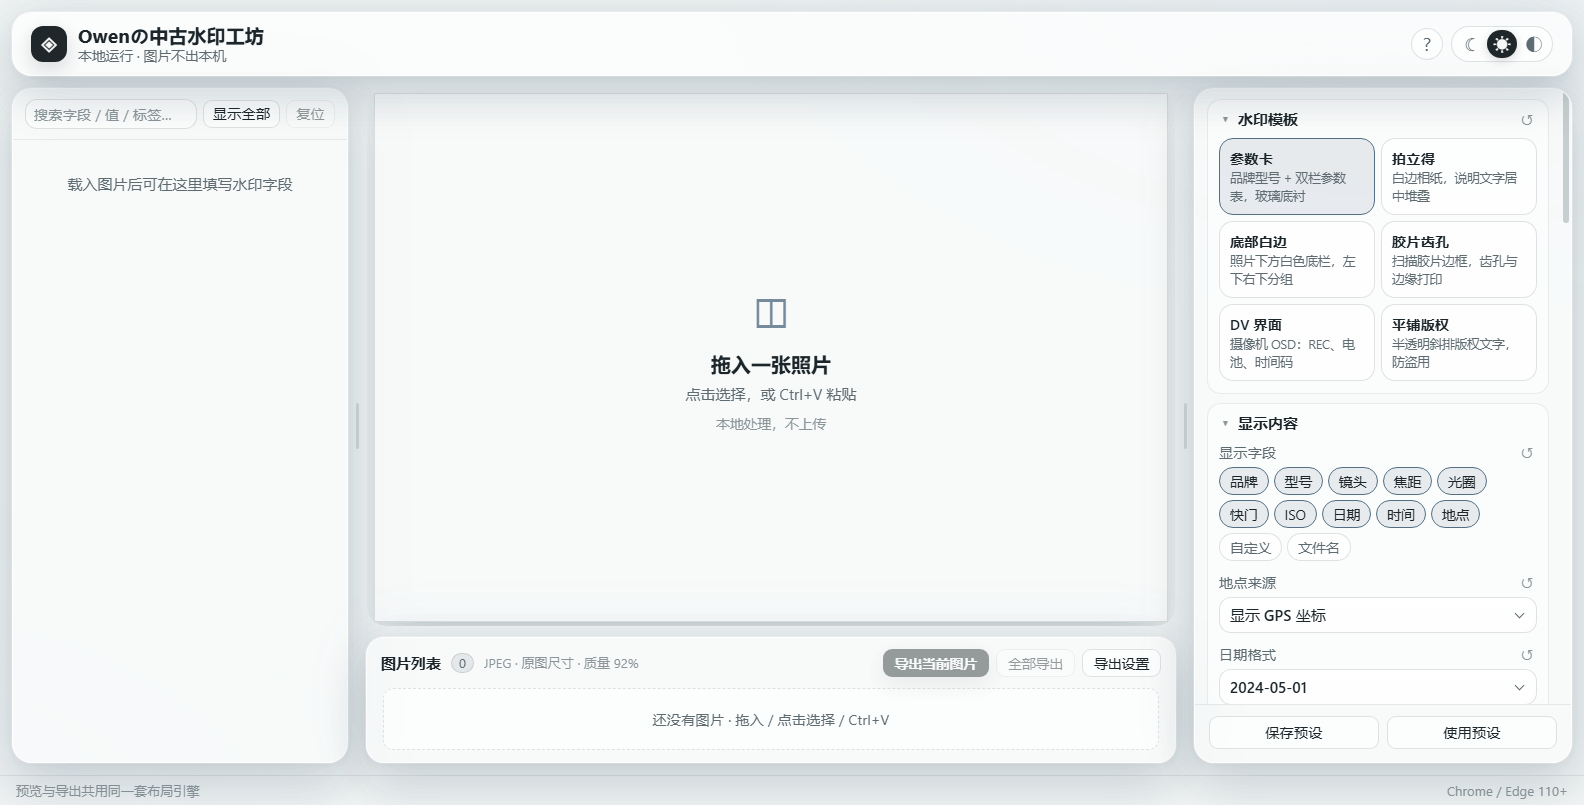
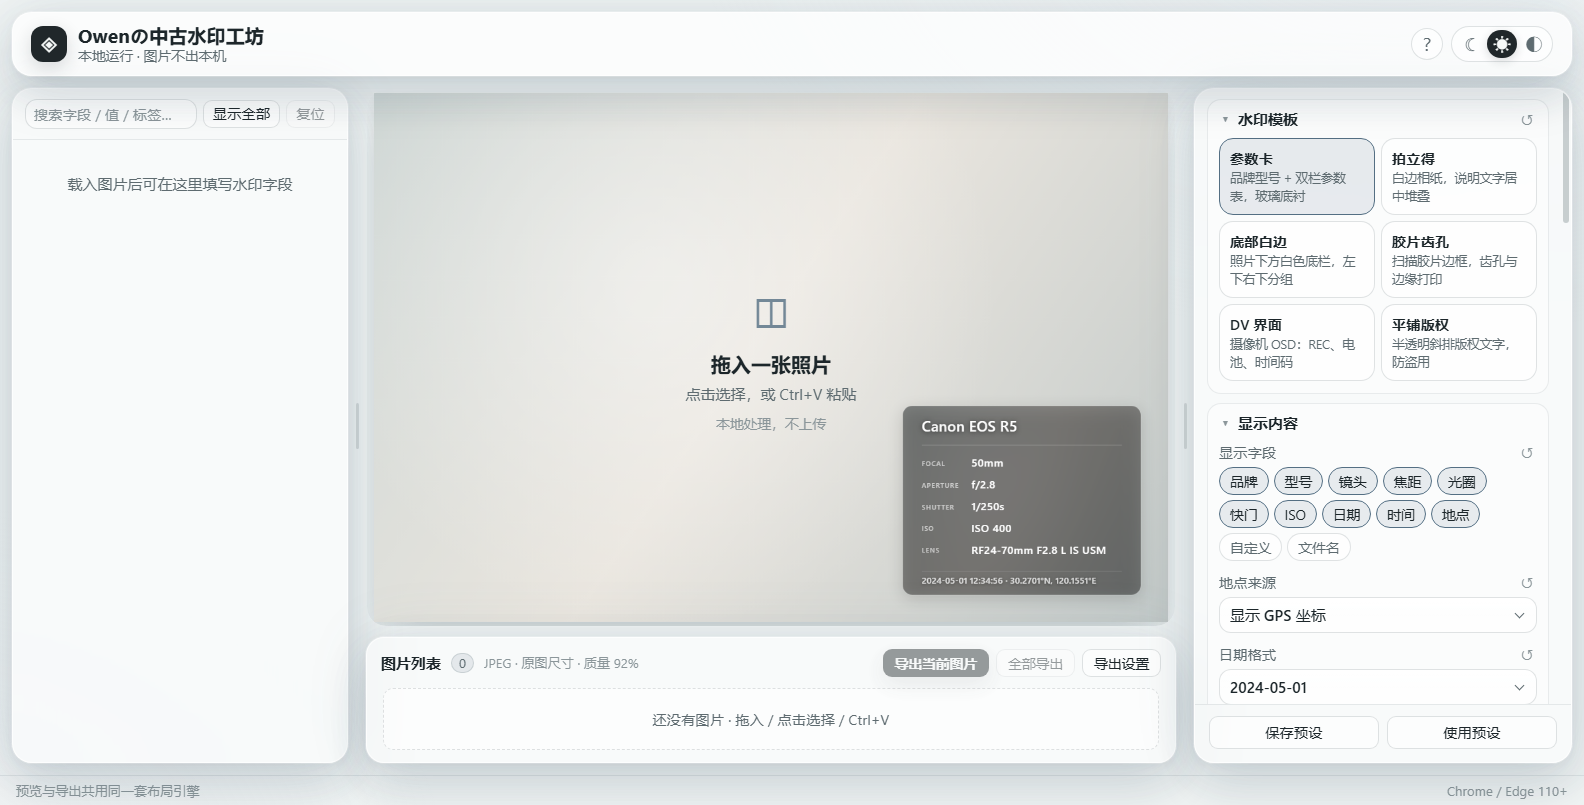
无图参考照片实时叠加模板水印
- 3:2 磨砂参考照片上按当前模板绘制水印，使用示例参数展示版式与位置
- 模板整体输出二分适配到 3:2，白边 / 胶片 / 拍立得外框也能完整铺满参考照片
- 保留拖入提示，点击模板即可预览，再次点击或双击取消
- mock 检查同步更新，新增 mock-preview 截图

Changed region(s): [[0.2165, 0.0932, 0.7424, 0.7764]]

diff --git a/js/ui.js b/js/ui.js
@@ -1055,16 +1055,111 @@
   }
 
   /* 无图状态也在画布上渲染当前模板，模拟一张照片导入后的样子 */
-  function renderMockPreview() {
-    // 没有照片时只保留 3:2 的磨砂占位方块；
-    // 模板选择仍然生效（存入 settings），导入照片后立刻应用。
-    var canvas = $id('empty-canvas');
-    if (!canvas) return;
+  /* 无图状态：一张空白参考照片 + 当前模板的水印预览 */
+  function mockPhotoCanvas() {
+    var canvas = document.createElement('canvas');
     canvas.width = 1200;
     canvas.height = 800;
     var ctx = canvas.getContext('2d');
-    ctx.clearRect(0, 0, canvas.width, canvas.height);
-    app.lastScene = null;
+    var g = ctx.createLinearGradient(0, 0, 1200, 800);
+    g.addColorStop(0, '#cfd7d5');
+    g.addColorStop(0.48, '#eae6df');
+    g.addColorStop(1, '#c2c9c8');
+    ctx.fillStyle = g;
+    ctx.fillRect(0, 0, 1200, 800);
+    var soft = ctx.createRadialGradient(430, 300, 40, 430, 300, 520);
+    soft.addColorStop(0, 'rgba(255, 255, 255, 0.42)');
+    soft.addColorStop(1, 'rgba(255, 255, 255, 0)');
+    ctx.fillStyle = soft;
+    ctx.fillRect(0, 0, 1200, 800);
+    return canvas;
+  }
+
+  function mockSummary() {
+    var summary = meta.buildSummary({
+      format: 'jpeg',
+      dimensions: { width: 1200, height: 800 },
+      file: { name: 'sample.jpg', size: 2400000 },
+      exif: null,
+      warnings: []
+    });
+    summary.make = 'Canon';
+    summary.model = 'EOS R5';
+    summary.modelFull = 'Canon EOS R5';
+    summary.lens = 'RF24-70mm F2.8 L IS USM';
+    summary.focal = 50;
+    summary.focalText = '50mm';
+    summary.aperture = 2.8;
+    summary.apertureText = 'f/2.8';
+    summary.shutter = 1 / 250;
+    summary.shutterText = '1/250s';
+    summary.iso = 400;
+    summary.isoText = 'ISO 400';
+    summary.exposureComp = 0.3;
+    summary.exposureCompText = '+0.3';
+    summary.exposureMode = 'A';
+    summary.exposureModeText = 'Av';
+    summary.date = meta.parseDateParts('2024-05-01 12:34:56');
+    summary.datetimeRaw = '2024-05-01 12:34:56';
+    summary.offset = '+08:00';
+    summary.latitude = 30.2701;
+    summary.longitude = 120.1551;
+    summary.altitude = 40;
+    summary.coordText = meta.formatCoord(30.2701, 120.1551);
+    summary.artist = 'Owen';
+    summary.copyright = '© 2024';
+    summary.filename = 'sample.jpg';
+    return summary;
+  }
+
+  function renderMockPreview() {
+    var canvas = $id('empty-canvas');
+    var box = $id('empty-state');
+    if (!canvas) return;
+    var hasTemplate = !!settings.template;
+    if (box) box.classList.toggle('has-template', hasTemplate);
+    if (!hasTemplate) {
+      canvas.width = 1200;
+      canvas.height = 800;
+      canvas.getContext('2d').clearRect(0, 0, 1200, 800);
+      app.lastScene = null;
+      return;
+    }
+    var photo = mockPhotoCanvas();
+    var summary = mockSummary();
+    var fmt = previewDateFormatter();
+    // 二分搜索照片宽度，让模板整体输出尽量接近 3:2，
+    // 这样白边/胶片/拍立得的外框也能完整铺满这块参考照片。
+    function composeMock(w) {
+      return layout.compose({
+        imageW: w,
+        imageH: 800,
+        meta: summary,
+        settings: settings,
+        brandName: 'Canon',
+        logoAspect: 3,
+        logoEnabled: false,
+        luminance: 0.55,
+        remoteLocation: '',
+        formatDateOnly: fmt.date,
+        formatTimeOnly: fmt.time
+      });
+    }
+    var lo = 240;
+    var hi = 4200;
+    var scene = composeMock(1200);
+    var bestDiff = Math.abs(scene.output.w / scene.output.h - 1.5);
+    for (var i = 0; i < 10; i++) {
+      var mid = Math.round((lo + hi) / 2);
+      var trial = composeMock(mid);
+      var ratio = trial.output.w / trial.output.h;
+      var diff = Math.abs(ratio - 1.5);
+      if (diff < bestDiff) { bestDiff = diff; scene = trial; }
+      if (diff < 0.002) break;
+      if (ratio < 1.5) lo = mid; else hi = mid;
+    }
+    render.draw(canvas, scene, { photo: photo, logo: null });
+    app.lastScene = scene;
   }
 
   function refreshPreviewFit() {

diff --git a/README.md b/README.md
@@ -37,7 +37,7 @@ node server.mjs
 - 常用栏的 4 张卡**默认全部展开**；搜索时只保留命中的卡片并自动展开，其余隐藏。
 - **常用栏 = 固定的水印字段清单，分 4 张卡**：相机与器材（品牌/型号/镜头）、曝光参数（焦距/光圈/快门/ISO/曝光补偿/拍摄模式）、文件信息（文件名/拍摄时间/时区/作者/版权）、地理位置（纬度/经度/海拔），共 **17 项**。**不管照片有没有 EXIF、字段值是有效还是空，这 17 行永远在、永远可双击修改/填入**；打开图片时先把全部 EXIF 读出来预填到对应行。空值显示为虚线「未填」占位，填入后水印立刻用新值渲染。修改只作用于界面与水印，**不写回原图、不影响导出的元数据**。曝光补偿与拍摄模式是真实参数：DV 曝光标尺的标记、胶片 Pentax 模式打印的档位/补偿都由它们驱动（缺省为 P / ±0.0）。
 - **「显示全部」= 只读全量**：仍按原有分组列出全部 EXIF/XMP/IPTC/ICC 字段，但**只可看、不可改**。工具栏按钮在两者间切换（记在 `wm.exif.v1`）。
-- **空状态就是一张 3:2 的磨砂「照片」**：中间预览区用与卡片同色的磨砂方块（直角、按舞台自适应大小）模拟一张照片，方块里显示「拖入一张照片 / 点击选择，或 Ctrl+V 粘贴」；整块可点击（也支持 Enter / Space），全页仍可拖入或粘贴。
+- **空状态就是一张 3:2 的空白参考照片**：中间预览区用与卡片同色的磨砂方块（直角、按舞台自适应大小）模拟一张照片，**选中的模板会实时画在这张参考照片上**（用一组示例参数展示版式与位置，方便在没导入照片时先看效果）；方块里仍保留「拖入一张照片 / 点击选择，或 Ctrl+V 粘贴」提示，整块可点击（也支持 Enter / Space），全页仍可拖入或粘贴。
 - **顶栏不再有「选择图片」「载入示例」按钮**：选图入口统一为中间这块模拟照片。
 - EXIF 支持**双击值行内修改**：品牌、型号、镜头、光圈、快门、ISO、焦距、日期、GPS、作者、版权等会立即更新水印；其他纯文本行只改面板显示。修改仅影响界面与水印，不写回导出文件元数据。
 - **底部栏只有一张「图片列表」卡片**，位于中间列、预览下方（左右侧栏因此各自通高）：
@@ -212,15 +212,15 @@ node tests/cdp-check.mjs shots    "http://127.0.0.1:5173/?demo=canon-r5.jpg"
 
 - `selftest`：真实浏览器 **131 条断言**，含 XMP 容器 ISO、DOM 解析、六模板渲染、方向、导出后重新解析元数据、PNG、自定义 logo、预设、ZIP、日期/时间独立、品牌去重、字重隔离、胶片固定孔比例/孔向、Minolta/Pentax/Canon 预设、DV 取景框与满透明度、EXIF 可见性精简与分组折叠规则。
 - `controls`：逐模板修改所有可见滑块并比较画布像素，再点复位验证恢复默认；**44 个滑块**全部通过。
-- `mock`：无图状态断言 3:2 磨砂方块（比例 1.5 ±0.02、直角）、提示文案、画布为空、顶栏无「选择图片/载入示例」、点击模板可选中、再次点击与双击均取消选择。
+- `mock`：无图状态断言 3:2 磨砂参考照片（比例 1.5 ±0.02、直角）、提示文案、顶栏无「选择图片/载入示例」；点击模板后画布实际绘制水印（模板输出比例仍为 1.5、提示保留），再次点击与双击都取消选择并清空水印。
 - `features`：新增 **导出设置弹窗**（背景 `blur`、控件在弹窗内、关闭后回到 host）、**预设条**（两个按钮、浮层最后一项为「导入预设」）、**左侧常用/全部两种模式**（常用 = 4 张卡 17 行且全部可编辑；全部 = 12 组 130 行且 0 个可编辑）、**滚轮缩放与双击复位**（滚轮变小、双击回自适应、最大不超过自适应）、**所有分区默认展开**（6 套模板逐一检查，胶片恰为「水印模板 / 胶片样式 / 打印内容」3 张）、**显示内容条件**（关掉地点不出现地点来源、勾自定义才出现自定义文字）、**DV 全扁平**（0 个带阴影图元）、**底栏无添加瓦片且图片不可拖**（清空后为可点击虚线框）、**底栏滚轮横滑**（17 张图时 `scrollLeft` 由 0 增至 240）、**下拉皮肤**等检查；并验证日期/时间独立与格式、品牌 logo 去重、拍立得字重隔离、底部白边 logo 位置与短竖线、胶片白色/黑色齿孔、型号只出现一次、片号 12/12A、Pentax 五段孔间参数、Minolta 贴右居中且竖向不压孔、Canon 右下日期、无打印、DV 取景框/分辨率/曝光/中心对焦、下拉大箭头。
 - `theme`：验证顶部栏右侧黑暗/开灯/跟随系统开关、照片低饱和主题色、模糊照片背景、系统深浅色跟随、localStorage 持久化，并断言**右侧分区与左侧分组圆角/描边/底色完全一致**（同款大卡片）、左侧常用栏 4 组 17 行全可编辑，并生成浅色/深色截图。
 - `files`：验证拖入第二张图自动切换、底部图片瓦片（只含图片，文件名在 `title`/`dataset`）、EXIF 始终可见与底部导出按钮。
-- 空状态截图：`shots/empty-state.png`（3:2 磨砂模拟照片、可直接点击选图）。
+- 空状态截图：`shots/empty-state.png`（3:2 磨砂参考照片 + 默认模板水印，可直接点击选图）、`shots/mock-preview.png`（切换胶片模板后的参考效果）。
 - `left`：验证底部图片卡片切换、EXIF 双击修改 Make / Model / FNumber、水印像素变化、复位与移除当前照片。
 - `resize`：验证网页字号 1.25 倍、左右侧栏真实鼠标拖动、键盘微调、双击复位、宽度持久化与移动端单列；同时断言**左右侧栏各自通高到底、底部图片列表卡与中间列同宽同缘、标题与右上三个导出按钮正确**、**预览区没有工具栏/页脚且面板背景透明无阴影**、**卡片柔光多段阴影生效**、**底栏所有缩略图等大且底边对齐（无缩放）**，以及预设条贴在右栏底部。
 - `real`：加载真实 45MB PNG，确认 XMP 摘要含品牌 / 镜头 / 光圈 / 快门 / ISO 并正常渲染。
-- `export`：生成真实水印 JPEG 到 `shots/`；`shots`：生成六套模板截图，以及 `film-bw`、`film-minolta`、`film-canon-date`、`film-vertical-minolta`、`film-vertical-canon`、`film-horizontal-minolta`、`bottom-bar-logo-left`、`dv-center-focus`、`export-settings-modal`、`preset-popover`、`dock-scroll`、`no-exif-filled`、`zoom-out`；`theme`：生成 `theme-light`、`theme-dark`。
+- `export`：生成真实水印 JPEG 到 `shots/`；`shots`：生成六套模板截图，以及 `film-bw`、`film-minolta`、`film-canon-date`、`film-vertical-minolta`、`film-vertical-canon`、`film-horizontal-minolta`、`bottom-bar-logo-left`、`dv-center-focus`、`export-settings-modal`、`preset-popover`、`dock-scroll`、`no-exif-filled`、`zoom-out`、`mock-preview`；`theme`：生成 `theme-light`、`theme-dark`。
 
 > 受限的 DSH 沙箱会禁止浏览器创建命名管道；上述浏览器检查需要在允许启动 Chrome / Edge 的环境运行。
 
